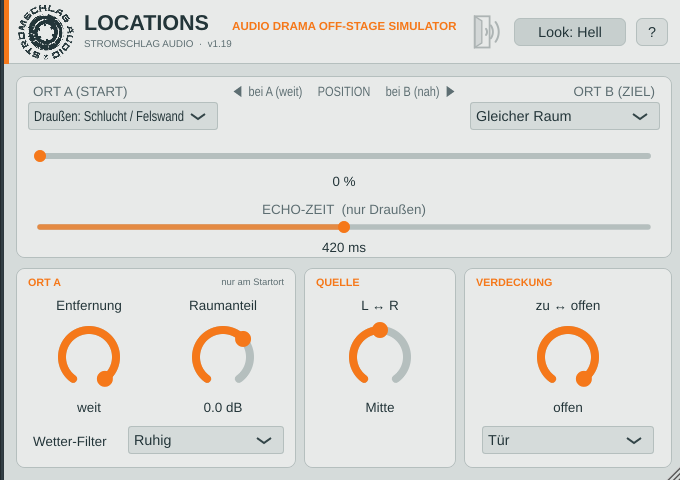
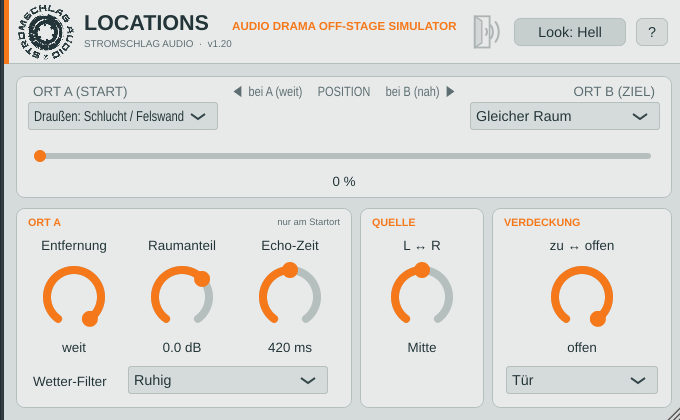
1.20: Echo-Zeit als Drehregler im Kasten ORT A (nur Ort A), Fenster wieder niedriger
Claude-Session: https://claude.ai/code/session_01N8U6GB1xxMvz4mQTh8N7Nk

diff --git a/Source/PluginEditor.cpp b/Source/PluginEditor.cpp
@@ -44,11 +44,9 @@ static juce::AttributedString buildHelp (juce::Colour text, juce::Colour accent,
     head ("POSITION (A nach B)");
     body ("Der wichtigste Regler: 0 % = Quelle bei Ort A, 100 % = bei Ort B. Automatisiere ihn für jede Bewegung, zum Beispiel Treppe herunter, Suchtrupp kommt näher oder jemand geht weg.");
 
-    head ("ECHO-ZEIT (nur Draußen)");
-    body ("Unter der Position. Verlängert oder verkürzt das Echo der Draußen-Orte (Wald, Straße, Schlucht): Mitte = Original, nach rechts länger, zum Beispiel für weite Täler oder Alpen. Der Wert zeigt die Echo-Zeit in Millisekunden. Bei allen anderen Orten ist der Regler grau und ohne Wirkung. Der Hall ist draußen nur noch knapp hörbar, das Echo trägt den Raumeindruck.");
-
     head ("Kasten ORT A (wirkt nur am Startort)");
     body ("Entfernung: wie weit weg Ort A ist, von nah bis weit. Beispiel Suchtrupp: weit = tief im Wald, 40 % = ein paar Bäume entfernt.");
+    body ("Echo-Zeit: verlängert oder verkürzt das Echo, wenn Ort A draußen ist (Wald, Straße, Schlucht). Mitte = Original, rechts länger, zum Beispiel für weite Täler oder Alpen; angezeigt in Millisekunden. Bei allen anderen Orten ist der Regler grau und ohne Wirkung. Der Hall ist draußen nur noch knapp hörbar, das Echo trägt den Raumeindruck.");
     body ("Raumanteil: mehr oder weniger Hall bzw. Echo von Ort A, in dB. Feinregler, normalerweise auf 0 dB lassen.");
     body ("Wetter-Filter: Ruhig, Wind / Regen, Sturm. Ändert nur den Klang, es kommen keine Wind- oder Regengeräusche dazu. Wirkt nur, wenn Ort A draußen ist, stärker mit der Entfernung, und verschwindet bei Ort B.");
 
@@ -109,25 +107,16 @@ LocationsEditor::LocationsEditor (LocationsProcessor& p) : AudioProcessorEditor 
     content.addAndMakeVisible (blend);
     attBlend = std::make_unique<APVTS::SliderAttachment> (processor.apvts, "blend", blend);
 
-    labelEcho.setText (u8 ("ECHO-ZEIT  (nur Drau\xc3\x9f""en)"), juce::dontSendNotification);
-    labelEcho.setJustificationType (juce::Justification::centred);
-    content.addAndMakeVisible (labelEcho);
-    echoSlider.setSliderStyle (juce::Slider::LinearHorizontal);
-    echoSlider.setTextBoxStyle (juce::Slider::TextBoxBelow, false, 70, 18);
-    content.addAndMakeVisible (echoSlider);
-    attEcho = std::make_unique<APVTS::SliderAttachment> (processor.apvts, "echoTime", echoSlider);
-    echoSlider.textFromValueFunction = [this] (double v)
-    {
-        // Anzeige in ms: Echo-Zeit des Ortes (A, sonst B) mal Faktor
-        const int a = juce::roundToInt (processor.apvts.getRawParameterValue ("placeA")->load());
-        const int b = juce::roundToInt (processor.apvts.getRawParameterValue ("placeB")->load());
-        const int i = (a >= loc::kFirstOutdoor && loc::place (a).echoMs > 0.0f) ? a : b;
-        if (i < loc::kFirstOutdoor || loc::place (i).echoMs <= 0.0f) return juce::String ("--");
-        return juce::String (juce::roundToInt (loc::place (i).echoMs * (float) v)) + " ms";
-    };
-    echoSlider.valueFromTextFunction = [] (const juce::String& t) { return (double) t.getFloatValue(); };
     placeA.onChange = [this] { updateEchoState(); };
-    placeB.onChange = [this] { updateEchoState(); };
+    setupKnob (echo, "echoTime", "Echo-Zeit");
+    echo.slider.textFromValueFunction = [this] (double v)
+    {
+        // Anzeige in ms: Echo-Zeit von Ort A mal Faktor
+        const int a = juce::roundToInt (processor.apvts.getRawParameterValue ("placeA")->load());
+        if (a < loc::kFirstOutdoor || loc::place (a).echoMs <= 0.0f) return juce::String ("--");
+        return juce::String (juce::roundToInt (loc::place (a).echoMs * (float) v)) + " ms";
+    };
+    echo.slider.valueFromTextFunction = [] (const juce::String& t) { return (double) t.getFloatValue(); };
     updateEchoState();
 
     setupKnob (distance, "distance", "Entfernung");
@@ -168,7 +157,7 @@ LocationsEditor::LocationsEditor (LocationsProcessor& p) : AudioProcessorEditor 
     // Tooltips
     placeA.setTooltip (u8 ("Startort der Bewegung"));
     placeB.setTooltip (u8 ("Zielort der Bewegung, meist Gleicher Raum"));
-    echoSlider.setTooltip (u8 ("Echo-Zeit der Drau\xc3\x9f""en-Orte (Wald, Stra\xc3\x9f""e, Schlucht): Mitte = Original, rechts l\xc3\xa4nger (weite T\xc3\xa4ler, Alpen). Bei anderen Orten ohne Wirkung."));
+    echo.slider.setTooltip (u8 ("Echo-Zeit von Ort A, wenn er drau\xc3\x9f""en ist (Wald, Stra\xc3\x9f""e, Schlucht): Mitte = Original, rechts l\xc3\xa4nger (weite T\xc3\xa4ler, Alpen). Bei anderen Orten ohne Wirkung."));
     blend.setTooltip (u8 ("Position: 0 % = bei Ort A (weit), 100 % = bei Ort B (nah). Hauptregler fuer die Bewegung."));
     distance.slider.setTooltip (u8 ("Wie weit weg Ort A ist (nah = 0 %, weit = 100 %). Ort B ist immer nah."));
     door.slider.setTooltip (u8 ("zu = dumpf und leise (Klang je nach Art der Verdeckung), offen = keine Wirkung. Wirkt auch bei Ort B (100 %) \xe2\x80\x93 f\xc3\xbcr frei im Raum ganz auf offen stellen."));
@@ -214,7 +203,7 @@ void LocationsEditor::applyTheme()
     look.setColour (juce::TextButton::buttonColourId, theme.dark ? theme.panel : theme.bg);
     look.setColour (juce::TextButton::textColourOffId, theme.text);
 
-    for (auto* l : { &labelA, &labelB, &labelBlend, &labelEcho })
+    for (auto* l : { &labelA, &labelB, &labelBlend })
         l->setColour (juce::Label::textColourId, theme.dim);
     themeButton.setButtonText (theme.dark ? "Look: Dunkel" : "Look: Hell");
     helpText.setAttributed (buildHelp (theme.text, theme.accent, theme.dim), theme.panel);
@@ -307,29 +296,29 @@ void LocationsEditor::paint (juce::Graphics& g)
 
     // Karten
     g.setColour (theme.panel);
-    g.fillRoundedRectangle (12.0f, 76.0f, (float) W - 24.0f, 182.0f, 8.0f);
+    g.fillRoundedRectangle (12.0f, 76.0f, (float) W - 24.0f, 122.0f, 8.0f);
     g.setColour (theme.line);
-    g.drawRoundedRectangle (12.5f, 76.5f, (float) W - 25.0f, 181.0f, 8.0f, 1.0f);
+    g.drawRoundedRectangle (12.5f, 76.5f, (float) W - 25.0f, 121.0f, 8.0f, 1.0f);
 
     // Untere Kaesten: ORT A | VERDECKUNG | QUELLE
     struct Box { float x, w; const char* title; const char* note; };
-    const Box boxes[] = { { 12.0f, 280.0f, "ORT A", "nur am Startort" },
-                          { 300.0f, 152.0f, "QUELLE", "" },
-                          { 460.0f, (float) W - 472.0f, "VERDECKUNG", "" } };
+    const Box boxes[] = { { 12.0f, 336.0f, "ORT A", "nur am Startort" },
+                          { 356.0f, 124.0f, "QUELLE", "" },
+                          { 488.0f, (float) W - 500.0f, "VERDECKUNG", "" } };
     const bool barrierActive = door.slider.getValue() < 0.995;   // Verdeckung wirkt (nicht ganz offen)
     for (const auto& b : boxes)
     {
         const bool hot = barrierActive && juce::String (b.title) == "VERDECKUNG";
         g.setColour (theme.panel);
-        g.fillRoundedRectangle (b.x, 268.0f, b.w, 200.0f, 8.0f);
+        g.fillRoundedRectangle (b.x, 208.0f, b.w, 200.0f, 8.0f);
         g.setColour (hot ? theme.accent : theme.line);
-        g.drawRoundedRectangle (b.x + 0.5f, 268.5f, b.w - 1.0f, 199.0f, 8.0f, hot ? 2.0f : 1.0f);
+        g.drawRoundedRectangle (b.x + 0.5f, 208.5f, b.w - 1.0f, 199.0f, 8.0f, hot ? 2.0f : 1.0f);
         g.setColour (theme.accent);
         g.setFont (juce::FontOptions (12.0f, juce::Font::bold));
-        g.drawText (b.title, (int) b.x + 12, 274, (int) b.w - 24, 16, juce::Justification::centredLeft);
+        g.drawText (b.title, (int) b.x + 12, 214, (int) b.w - 24, 16, juce::Justification::centredLeft);
         g.setColour (hot ? theme.accent : theme.dim);
         g.setFont (juce::FontOptions (10.5f, hot ? juce::Font::bold : juce::Font::plain));
-        g.drawText (hot ? juce::String ("aktiv") : u8 (b.note), (int) b.x + 12, 274, (int) b.w - 24, 16, juce::Justification::centredRight);
+        g.drawText (hot ? juce::String ("aktiv") : u8 (b.note), (int) b.x + 12, 214, (int) b.w - 24, 16, juce::Justification::centredRight);
     }
 }
 
@@ -349,7 +338,7 @@ void LocationsEditor::resized()
     // Look links, Hilfe ganz rechts (gleicher Gesamtplatz, nur getauscht)
     themeButton.setBounds (w - 170, 18, 112, 28);
     helpButton.setBounds (w - 48, 18, 32, 28);
-    helpScroll.setBounds (12, 76, w - 24, 392);   // deckt die Kartenflaeche (y 76 bis 468) genau ab
+    helpScroll.setBounds (12, 76, w - 24, 332);   // deckt die Kartenflaeche (y 76 bis 408) genau ab
     helpText.setWidth (helpScroll.getMaximumVisibleWidth());
 
     labelA.setBounds (24, 82, 200, 18);
@@ -358,8 +347,6 @@ void LocationsEditor::resized()
     placeB.setBounds (w - 214, 102, 190, 28);
     labelBlend.setBounds (224, 82, w - 448, 18);
     blend.setBounds (24, 140, w - 48, 50);
-    labelEcho.setBounds (224, 200, w - 448, 18);
-    echoSlider.setBounds (24, 216, w - 48, 40);
 
     auto placeKnob = [] (Knob& k, int x, int y, int cw)
     {
@@ -367,28 +354,27 @@ void LocationsEditor::resized()
         k.slider.setBounds (x + 10, y + 20, cw - 20, 100);
     };
     // ORT A: Entfernung, Raumanteil, darunter Wetter-Filter
-    placeKnob (distance, 18, 296, 134);
-    placeKnob (room, 152, 296, 134);
-    weatherLabel.setBounds (24, 428, 100, 26);
-    weatherBox.setBounds (124, 426, 156, 28);
+    placeKnob (distance, 16, 236, 108);
+    placeKnob (room, 124, 236, 108);
+    placeKnob (echo, 232, 236, 108);
+    weatherLabel.setBounds (24, 368, 100, 26);
+    weatherBox.setBounds (124, 366, 200, 28);
     // QUELLE (Mitte): L-R
-    placeKnob (pan, 306, 296, 140);
+    placeKnob (pan, 356, 236, 124);
     // VERDECKUNG (rechts aussen, wirkt bis zum Schluss): Regler, Art-Auswahl darunter (auf Hoehe des Wetter-Filters)
-    const int vx = 466, vw = w - 12 - 6 - vx;
-    placeKnob (door, vx, 296, vw);
-    barrierBox.setBounds (vx + 12, 426, vw - 24, 28);
+    const int vx = 494, vw = w - 12 - 6 - vx;
+    placeKnob (door, vx, 236, vw);
+    barrierBox.setBounds (vx + 8, 366, vw - 16, 28);
     helpScroll.toFront (false);
 }
 
-// Echo-Zeit ist nur aktiv (orange), wenn Ort A oder B ein Draussen-Ort mit Echo ist (Wald, Strasse, Schlucht)
+// Echo-Zeit ist nur aktiv (orange), wenn Ort A ein Draussen-Ort mit Echo ist (Wald, Strasse, Schlucht)
 void LocationsEditor::updateEchoState()
 {
     const int a = juce::roundToInt (processor.apvts.getRawParameterValue ("placeA")->load());
-    const int b = juce::roundToInt (processor.apvts.getRawParameterValue ("placeB")->load());
-    auto usable = [] (int i) { return i >= loc::kFirstOutdoor && loc::place (i).echoMs > 0.0f; };
-    const bool active = usable (a) || usable (b);
-    echoSlider.setEnabled (active);
-    echoSlider.setAlpha (active ? 1.0f : 0.35f);
-    labelEcho.setAlpha (active ? 1.0f : 0.45f);
-    echoSlider.updateText();
+    const bool active = a >= loc::kFirstOutdoor && loc::place (a).echoMs > 0.0f;
+    echo.slider.setEnabled (active);
+    echo.slider.setAlpha (active ? 1.0f : 0.35f);
+    echo.label.setAlpha (active ? 1.0f : 0.45f);
+    echo.slider.updateText();
 }

diff --git a/Source/LocationsDSP.h b/Source/LocationsDSP.h
@@ -302,7 +302,7 @@ struct Params
     float pan = 0.0f;          // -1 = links, 0 = Mitte, +1 = rechts (nur die Quelle, nicht der Raum)
     int   barrier = 0;         // Tuer / Fenster / Vorhang / Autoscheibe
     int   weather = 0;         // Ruhig / Wind-Regen / Sturm (wirkt nur draussen bei Ort A)
-    float echoTime = 1.0f;     // Faktor auf die Echo-Zeit der Orte draussen (0,25 bis 4)
+    float echoTime = 1.0f;     // Faktor auf die Echo-Zeit von Ort A, wenn draussen (0,25 bis 4)
 };
 
 class Engine
@@ -373,7 +373,7 @@ private:
         const float tDoor = std::clamp (p.door, 0.0f, 1.0f);
         const float tPan = std::clamp (p.pan, -1.0f, 1.0f);
         const float es = std::clamp (p.echoTime, 0.25f, 4.0f);
-        roomA.setEchoScale (es); roomB.setEchoScale (es);   // vor want(): neue Orte starten gleich mit der richtigen Echo-Zeit
+        roomA.setEchoScale (es);   // nur Ort A (Ort B ist meist der gleiche Raum); vor want(): neue Orte starten gleich richtig
         roomA.want (p.placeA); roomB.want (p.placeB);
 
         const auto& A = place (p.placeA);

diff --git a/Source/PluginEditor.h b/Source/PluginEditor.h
@@ -69,7 +69,7 @@ private:
     static Theme darkTheme();
     static Theme lightTheme();
 
-    static constexpr int kBaseW = 680, kBaseH = 480;
+    static constexpr int kBaseW = 680, kBaseH = 420;
 
     LocationsProcessor& processor;
     juce::LookAndFeel_V4 look;
@@ -79,11 +79,10 @@ private:
     bool sizeReady = false;   // erst nach dem Wiederherstellen der Groesse Fenstergroesse speichern
     juce::Image logo;
     juce::ComboBox placeA, placeB;
-    juce::Label labelA, labelB, labelBlend, labelEcho;
-    juce::Slider blend, echoSlider;
-    std::unique_ptr<APVTS::SliderAttachment> attEcho;
+    juce::Label labelA, labelB, labelBlend;
+    juce::Slider blend;
     void updateEchoState();
-    Knob distance, door, pan, room;
+    Knob distance, door, pan, room, echo;
     juce::ComboBox barrierBox, weatherBox;
     juce::Label weatherLabel;
     std::unique_ptr<APVTS::ComboBoxAttachment> attBarrier, attWeather;

diff --git a/README.md b/README.md
@@ -102,7 +102,7 @@ passieren automatisch.
 |---|---|
 | Ort A / Ort B | Start und Ziel der Bewegung |
 | Position (A nach B) | **der Regler für die Bewegung**: 0 % = bei Ort A, 100 % = bei Ort B (nah) |
-| Echo-Zeit (nur Draußen) | Schieberegler unter der Position. Streckt oder verkürzt das Echo von Wald, Straße und Schlucht: Mitte = Original, rechts länger (bis ×4), links kürzer. Angezeigt wird die Zeit in ms. Bei allen anderen Orten grau und ohne Wirkung |
+
 
 **Unten, in drei Kästen**
 
@@ -110,6 +110,7 @@ passieren automatisch.
 |---|---|---|
 | **ORT A** – wirkt nur am Startort | Entfernung | wie weit weg Ort A ist (nah – weit) |
 | | Raumanteil | mehr oder weniger Hall bzw. Echo von Ort A (Feinregler, normalerweise 0 dB) |
+| | Echo-Zeit | nur wenn Ort A draußen ist (Wald, Straße, Schlucht): streckt oder verkürzt dessen Echo, Mitte = Original, rechts länger (bis ×4), zum Beispiel für Alpen und weite Täler. Angezeigt in ms; sonst grau und ohne Wirkung |
 | | Wetter-Filter | Ruhig, Wind / Regen, Sturm. **Ändert nur den Klang, erzeugt keine Wind- oder Regengeräusche.** Nur wenn Ort A draußen ist: Höhen werden geschluckt, Böen lassen Rufe schwanken. Stärker mit der Entfernung, verschwindet zu Ort B hin |
 | **QUELLE** | L ↔ R | Panorama der Quelle (Stimme, Schritte, Geräusch auf der Spur). Nur die Quelle wandert, Hall und Echo bleiben in der Mitte – anders als beim Pan am Kanal. Gilt über die ganze Bewegung. Nur auf Stereo-Spur oder Stereo-Bus – auf einer Mono-Spur den Pan am Kanal benutzen |
 | **VERDECKUNG** (ganz rechts) – etwas, das sich zwischen Quelle und Hörer stellt; unabhängig von der Position | Art | Tür, Fenster (gekippt ≈ Mitte), Vorhang, Autoscheibe, Schrank, Kofferraum oder Unter Wasser |
@@ -149,7 +150,8 @@ Aus der Ferne kommen nur Fetzen durch, je näher er kommt, desto verständlicher
 
 Die Versionsnummer steht in der Datei `VERSION`, im Plugin-Kopf und im Namen der Release. Sie wird bei jeder Änderung hochgezählt (1.0, 1.1, 1.2 …).
 
-- **1.19** – Draußen-Orte auf Anregung von Markus Hildebrandt überarbeitet: Hall kaum noch hörbar (knapp an der Hörschwelle), das Echo trägt den Raumeindruck. Neuer Regler „Echo-Zeit“ unter der Position, nur bei Draußen-Orten aktiv (Wald, Straße, Schlucht), von ×0,25 bis ×4 gegenüber dem Original. Das Fenster ist dadurch etwas höher; gespeicherte Fenstergrößen bleiben in der Breite erhalten.
+- **1.20** – Echo-Zeit ist jetzt ein Drehregler im Kasten ORT A (statt Schieber unter der Position) und wirkt nur auf Ort A, denn Ort B ist meist der gleiche Raum. Das Fenster hat wieder die alte Höhe, der Kasten ORT A ist etwas breiter.
+- **1.19** – Draußen-Orte auf Anregung von Markus Hildebrandt überarbeitet: Hall kaum noch hörbar (knapp an der Hörschwelle), das Echo trägt den Raumeindruck. Neuer Regler „Echo-Zeit“, nur bei Draußen-Orten aktiv (Wald, Straße, Schlucht), von ×0,25 bis ×4 gegenüber dem Original.
 - **1.18** – Look und Hilfe-Knopf getauscht: „?“ ganz rechts, Look links davon.
 - **1.17** – Hilfe: Fenster deckt die Kartenfläche mit gleichen runden Ecken genau ab.
 - **1.16** – Hilfe: Credits zeigen „Idee und Konzept: Lars Eickstädt“ (ohne Umsetzungszeile).
